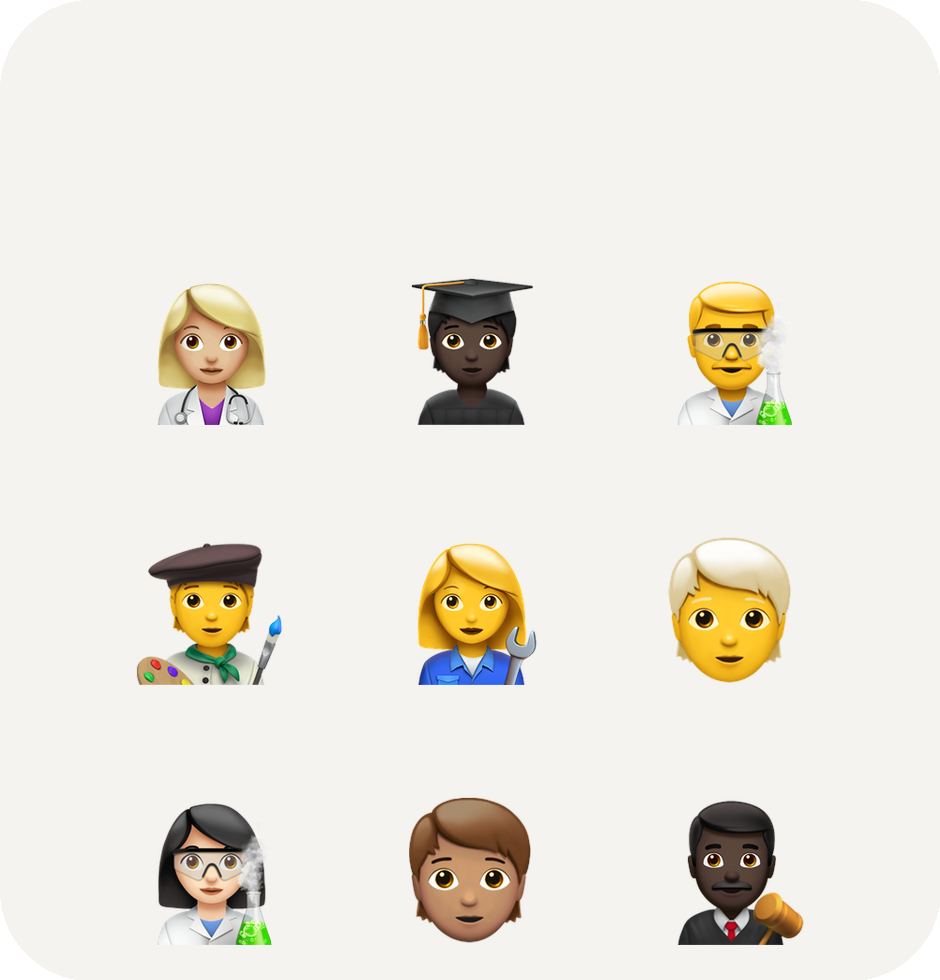
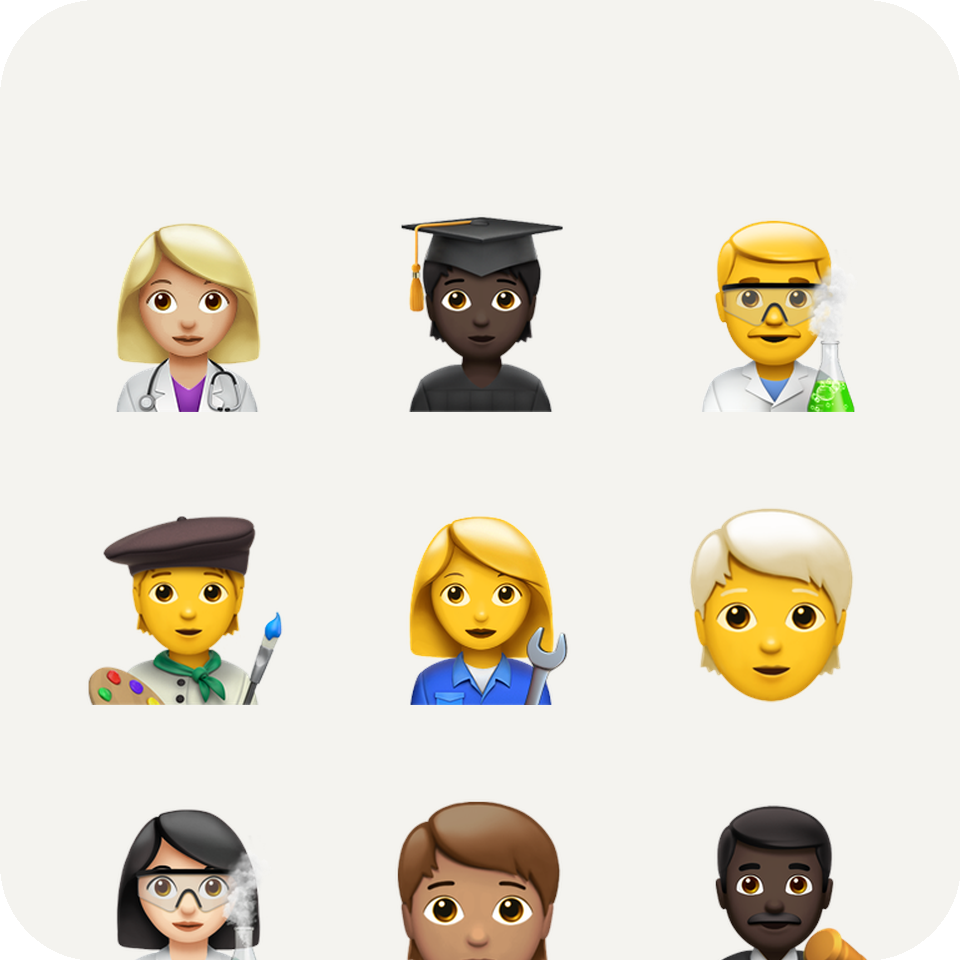
Use 'Tony Chen' navbar title; tighten subtitle spacing; center persona preview vertically

diff --git a/_pages/about.md b/_pages/about.md
@@ -5,12 +5,11 @@ permalink: /
 subtitle: |+
   <strong>PhD Student in Computer Science</strong><br>
   <a href="https://www.cs.princeton.edu/">Princeton University</a><br>
-  Advisor: <a href="https://liuzhuang13.github.io/">Zhuang Liu</a><br>
-
+  Advisor: <a href="https://liuzhuang13.github.io/">Zhuang Liu</a>
+  <br>
   <a href="/assets/pdf/cv.pdf" target="_blank" title="Download CV" class="cv-icon">
     <i class="fas fa-file-pdf"></i> Download CV
   </a>
-  <br><br>
 
 profile:
   image: profile.jpg